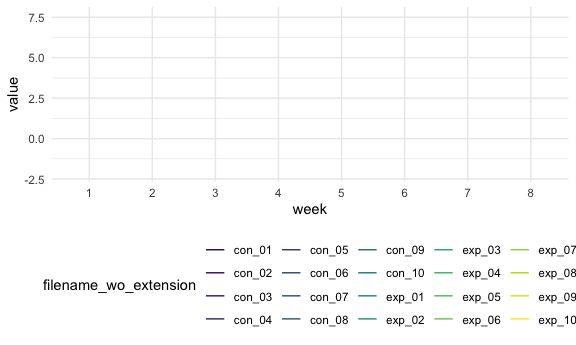
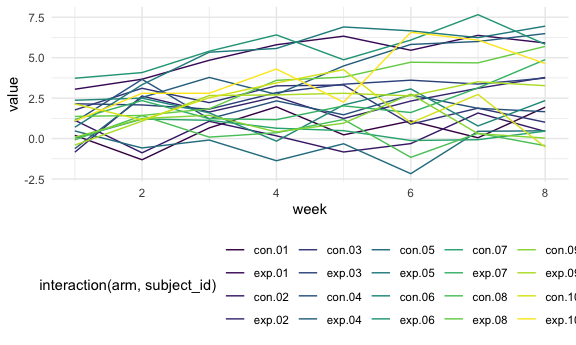
finish problem 3

diff --git a/p8105_hw5_hw2851.md b/p8105_hw5_hw2851.md
@@ -86,18 +86,66 @@ prob_2_data_pivoted =
   pivot_longer(week_1:week_8,
                names_to = "week",
                names_prefix = "week_",
-               values_to = "value")
+               values_to = "value") %>%
+  mutate(week = as.integer(week))
 prob_2_plot =
   prob_2_data_pivoted %>%
-  select(week, value, filename_wo_extension) %>%
   group_by(filename_wo_extension) %>%
-  ggplot(aes(x = week, y = value, color=filename_wo_extension)) +
+  ggplot(aes(x = week, y = value, color = interaction(arm, subject_id))) +
     geom_line()
 
 prob_2_plot
 ```
 
-    ## geom_path: Each group consists of only one observation. Do you need to adjust
-    ## the group aesthetic?
-
 <img src="p8105_hw5_hw2851_files/figure-gfm/unnamed-chunk-3-1.png" width="90%" />
+
+The plot above shows the observation values on each subject over time.
+It seems that the exp group generally has higher observation values than
+the control group; no apparent temporal trend can be observed.
+
+# Problem 3
+
+We first load the iris dataset and introduce missing values:
+
+``` r
+set.seed(10)
+
+iris_with_missing = iris %>% 
+  map_df(~replace(.x, sample(1:150, 20), NA)) %>%
+  mutate(Species = as.character(Species))
+```
+
+Then we implement the function that replaces missing values, and apply
+on the iris_with_missing dataset:
+
+``` r
+# fill in missing value for a single value
+fill_missing_value = function(val, default_val) {
+  if (is.na(val)) {
+    default_val
+  }
+  else {
+    val
+  }
+}
+
+fill_missing_values = function(vec) {
+  if (length(vec) <= 0) {
+    stop("Error: not a valid vector")
+  }
+  
+  # check if it's numeric vector
+  if (is.numeric(vec)) {
+    # fill in with mean
+    mean_value = mean(vec, na.rm = TRUE)
+    map(.x = vec, ~ fill_missing_value(.x, mean_value))
+  }
+  else if(is.character(vec)) {
+    # fill in with "virginica"
+    map(.x = vec, ~ fill_missing_value(.x, "virginica"))
+  }
+}
+
+output = vector("list", length = 5)
+output = map(iris_with_missing, fill_missing_values)
+```
